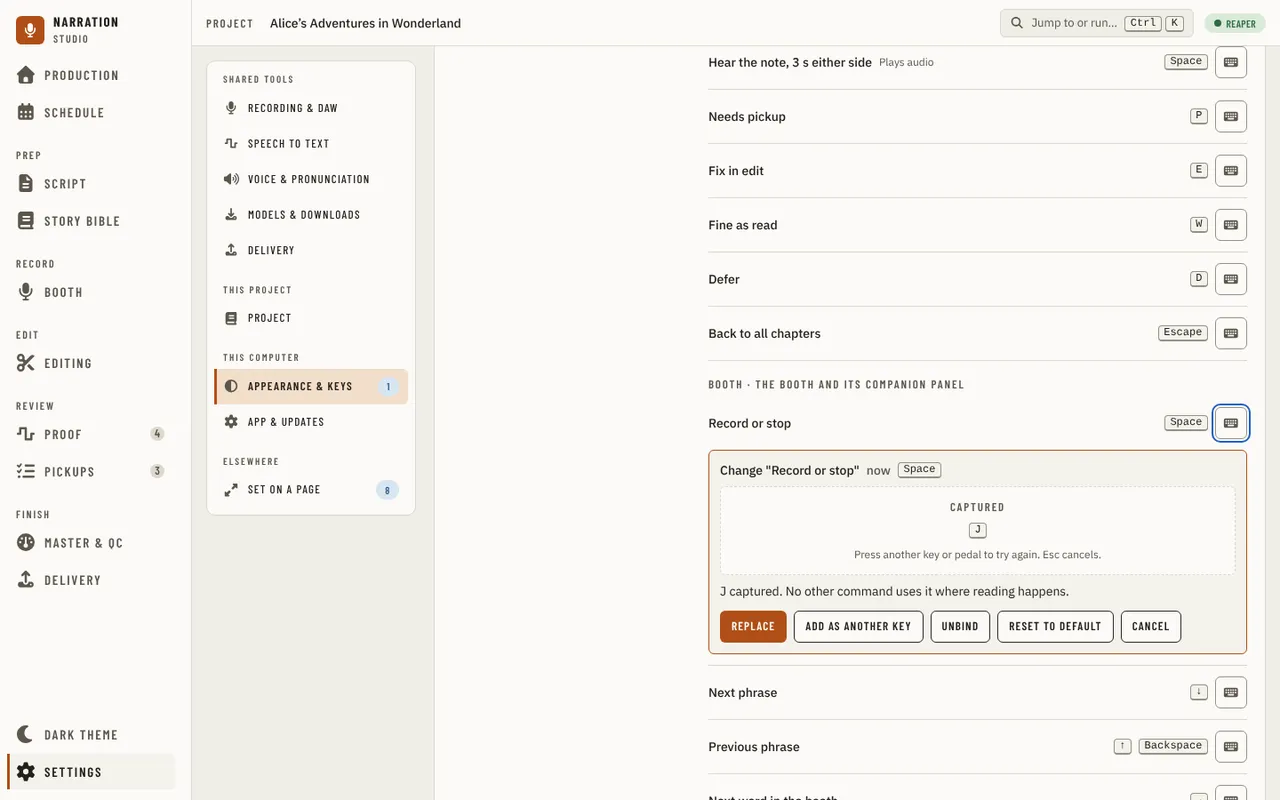
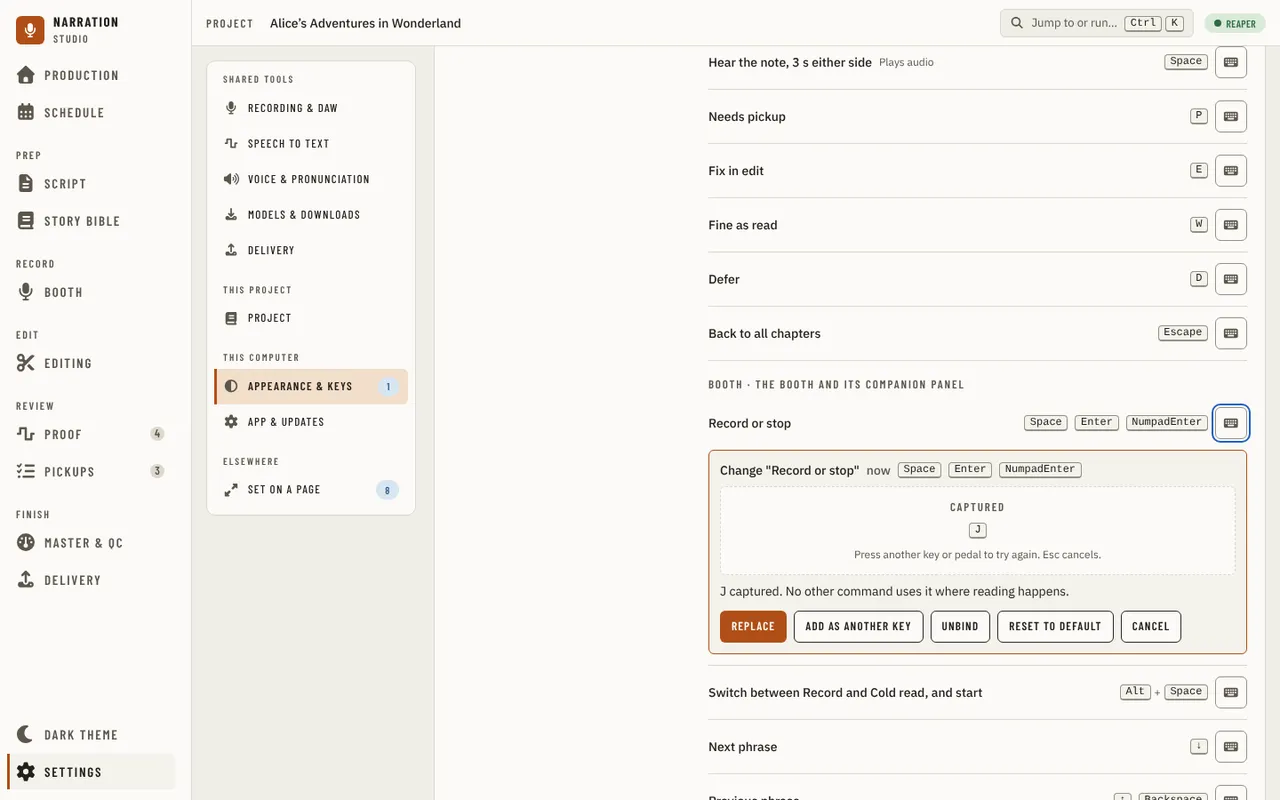
feat(booth): alt+space switches record and cold read and starts it (#3449)

diff --git a/src/studio/ui/tests/visual/booth-mode-switch.spec.ts b/src/studio/ui/tests/visual/booth-mode-switch.spec.ts
@@ -1,0 +1,141 @@
+// Alt+Space in the Booth (#3445): the main button switches to its other mode and starts it at once, by the same press as Record and Cold read. From
+// Record it starts a cold read, from Cold read a take; nothing new while either runs or while a popup has the keyboard; a held chord starts once.
+import { expect, test, type Page } from '@playwright/test';
+import { settlePage } from './helpers/settle';
+import { boothChapterReady } from './helpers/viewTop';
+import { goToPage } from './drivers/shared';
+import { pastStartGuard } from './helpers/startGuard';
+
+const record = (page: Page) => page.getByRole('button', { name: /^Record$/ });
+// A take shows REC; a cold read's main button also reads Stop, so Stop alone does not tell them apart.
+const stop = (page: Page) => page.getByText('REC', { exact: true });
+const coldRunning = (page: Page) => page.getByText('Mic on · cold read', { exact: true });
+
+async function openBooth(page: Page): Promise<void> {
+  await page.goto('/');
+  await settlePage(page);
+  await goToPage(page, 'Booth');
+  await boothChapterReady(page);
+  await expect(record(page)).toBeEnabled();
+}
+
+async function chooseColdRead(page: Page): Promise<void> {
+  await page.getByRole('button', { name: 'Record options' }).click();
+  await page.getByRole('radio', { name: 'Cold read' }).click();
+  await page.keyboard.press('Escape');
+  await expect(page.getByRole('button', { name: 'Cold read' })).toBeVisible();
+}
+
+/** Enter and Space after the switch are Record's: focus must be on the page, not on a control that keeps them. */
+const onThePage = (page: Page) =>
+  page.evaluate(() => {
+    const el = document.activeElement;
+    return !el || el === document.body || el.tagName === 'MAIN';
+  });
+
+test.describe('Alt+Space switches the main button and starts it', () => {
+  test('from Record: the button turns to Cold read and a cold read starts; Space then stops it', async ({ page }) => {
+    await openBooth(page);
+    await page.keyboard.press('Alt+Space');
+    await expect(coldRunning(page)).toBeVisible();
+    await expect(stop(page)).toHaveCount(0);
+    expect(await onThePage(page)).toBe(true);
+    await page.keyboard.press('Space');
+    await expect(coldRunning(page)).toHaveCount(0);
+    // The mode stays Cold read after it stops: the main button says so.
+    await expect(page.getByRole('button', { name: 'Cold read' })).toBeVisible();
+  });
+
+  test('from Cold read: the button turns to Record and a take starts; Space then stops it', async ({ page }) => {
+    await openBooth(page);
+    await chooseColdRead(page);
+    await page.keyboard.press('Alt+Space');
+    await expect(stop(page)).toBeVisible();
+    await expect(coldRunning(page)).toHaveCount(0);
+    expect(await onThePage(page)).toBe(true);
+    await pastStartGuard(page);
+    await page.keyboard.press('Space');
+    await expect(stop(page)).toHaveCount(0);
+    await expect(record(page)).toBeVisible();
+  });
+
+  test('during a take it does nothing new: the take goes on and the mode stays Record', async ({ page }) => {
+    await openBooth(page);
+    await page.keyboard.press('Space');
+    await expect(stop(page)).toBeVisible();
+    await page.keyboard.press('Alt+Space');
+    await page.waitForTimeout(500);
+    await expect(stop(page)).toBeVisible();
+    await expect(coldRunning(page)).toHaveCount(0);
+  });
+
+  test('during a cold read it does nothing new: the cold read goes on and no take starts', async ({ page }) => {
+    await openBooth(page);
+    await page.keyboard.press('Alt+Space');
+    await expect(coldRunning(page)).toBeVisible();
+    await page.keyboard.press('Alt+Space');
+    await page.waitForTimeout(500);
+    await expect(coldRunning(page)).toBeVisible();
+    await expect(stop(page)).toHaveCount(0);
+  });
+
+  test('with Record options focused it starts the take and frees focus, so Enter then stops it', async ({ page }) => {
+    await openBooth(page);
+    await chooseColdRead(page);
+    await expect(page.getByRole('button', { name: 'Record options' })).toBeFocused();
+    await page.keyboard.press('Alt+Space');
+    await expect(stop(page)).toBeVisible();
+    expect(await onThePage(page)).toBe(true);
+    await pastStartGuard(page);
+    await page.keyboard.press('Enter');
+    await expect(stop(page)).toHaveCount(0);
+  });
+
+  test('the footer keeps the room it had: no Alt+Space hint, one row at 1280', async ({ page }) => {
+    await page.setViewportSize({ width: 1280, height: 800 });
+    await openBooth(page);
+    const hints = page.locator('#bkeys');
+    await expect(hints).toBeVisible();
+    await expect(hints).not.toContainText('Switch mode');
+    expect(await hints.evaluate((el) => el.getBoundingClientRect().height)).toBeLessThan(45);
+  });
+
+  test('the shortcut sheet lists the key', async ({ page }) => {
+    await openBooth(page);
+    await page.keyboard.press('Shift+Slash');
+    await expect(page.getByRole('dialog').getByText('Switch between Record and Cold read, and start')).toBeVisible();
+  });
+
+  test('a held chord starts once', async ({ page }) => {
+    await openBooth(page);
+    await chooseColdRead(page);
+    await page.keyboard.down('Alt');
+    await page.keyboard.down('Space');
+    for (let i = 0; i < 10; i++) await page.keyboard.down('Space');
+    await page.keyboard.up('Space');
+    await page.keyboard.up('Alt');
+    await expect(stop(page)).toBeVisible();
+    await page.waitForTimeout(500);
+    await expect(stop(page)).toBeVisible();
+  });
+
+  test('with a popover open it does nothing: the popover keeps the keyboard and nothing starts', async ({ page }) => {
+    await openBooth(page);
+    await page.getByRole('button', { name: 'Record options' }).click();
+    await expect(page.getByRole('dialog', { name: 'Record options' })).toBeVisible();
+    await page.keyboard.press('Alt+Space');
+    await page.waitForTimeout(500);
+    await expect(stop(page)).toHaveCount(0);
+    await expect(coldRunning(page)).toHaveCount(0);
+  });
+
+  test('the keydown is handled, so the window menu Alt+Space opens on Windows is not asked for', async ({ page }) => {
+    await openBooth(page);
+    const prevented = await page.evaluate(() => {
+      const event = new KeyboardEvent('keydown', { key: ' ', code: 'Space', altKey: true, bubbles: true, cancelable: true });
+      document.querySelector('main')?.dispatchEvent(event);
+      return event.defaultPrevented;
+    });
+    expect(prevented).toBe(true);
+  });
+});

diff --git a/src/studio/ui/src/components/booth/page/useBoothPage.ts b/src/studio/ui/src/components/booth/page/useBoothPage.ts
@@ -1,6 +1,8 @@
 import { useCallback, useEffect, useMemo, useReducer, useRef, useState } from 'react';
 import type { DawResult } from '../../../api/contracts/daw';
 import { usePedalSpace } from '../../../input/usePedalSpace';
+import { keyLayerOpen } from '../../../input/targets';
+import { releaseFocusToPage } from '../releaseFocusToPage';
 import { useCommand } from '../../../input/useCommand';
 import type { OverlayService } from '../../../overlay/overlayService';
 import type { DawClient, DawRecordStart } from '../../../ports/daw';
@@ -1114,7 +1116,7 @@ export function useBoothPage(options: BoothPageOptions) {
       }
       const started = listening.value;
       if (started.ok) coldClaim.current = mine;
-      else if (!gone()) overlay.toast(`Cold read did not start: ${started.reason || 'listening failed'}.`, { tone: 'error' });
+      else if (!gone()) overlay.toast(`Cold read did not start: ${(started.reason || 'listening failed').replace(/[.\s]+$/, '')}.`, { tone: 'error' });
     } finally {
       coldReadStarting.current = false;
       setColdStarting(false);
@@ -1176,6 +1178,19 @@ export function useBoothPage(options: BoothPageOptions) {
     if (!latest.current.recording && control.gate) return blocked(control.gate);
     void roll.punchAndRoll();
   }, [control.gate, roll, blocked]);
+  // Alt+Space (#3445): the main button's other mode, started at once by the same press Record and Cold read use (toggleTake, toggleColdRead):
+  // from Record a cold read, from Cold read a take. Nothing new while a take or a cold read runs or is starting, or while a popup or a question has
+  // the keyboard (the router lets an Alt chord through a popup, so this says no to it here).
+  const switchMode = useCallback(async () => {
+    const now = latest.current;
+    if (now.takeOut || now.coldRead || coldReadStarting.current || starting.current || keyLayerOpen()) return;
+    releaseFocusToPage();
+    const cold = !now.coldMode;
+    setColdMode(cold);
+    if (cold) await toggleColdRead();
+    else await toggleTake();
+  }, [toggleColdRead, toggleTake]);
+  useCommand('booth.mode.switch', () => void switchMode());
   useCommand('reading.toggle', () => void pressMain());
   usePedalSpace(pressMain);
   useCommand('booth.phrase.next', () => moveReading(nextPhrase(latest.current.units, latest.current.at)));

diff --git a/src/studio/ui/src/input/commands.catalog.test.ts b/src/studio/ui/src/input/commands.catalog.test.ts
@@ -105,6 +105,7 @@ describe('the Booth rows', () => {
       'booth.phrase.prev': ['ArrowUp', 'Backspace'],
       'booth.word.next': ['ArrowRight'],
       'booth.word.prev': ['ArrowLeft'],
+      'booth.mode.switch': ['Alt+Space'],
       'booth.roll': ['KeyR'],
       'booth.view.down': ['PageDown'],
       'booth.view.up': ['PageUp'],
@@ -134,13 +135,24 @@ describe('the Booth rows', () => {
     // Space stays the first gesture (the footer hint draws it); Enter and numpad Enter are the same action for the numpad (#3039).
     expect(codes('reading.toggle')).toEqual(['Space', 'Enter', 'NumpadEnter']);
     for (const code of ['Space', 'Enter', 'NumpadEnter']) {
-      const rows = COMMAND_CATALOG.filter((row) => row.scope === 'booth' && row.defaults.some((gesture) => gesture.code === code));
+      // A plain press: Alt+Space is a different gesture, the mode switch (#3445), checked below.
+      const rows = COMMAND_CATALOG.filter(
+        (row) => row.scope === 'booth' && row.defaults.some((gesture) => gesture.code === code && gesture.modifiers.length === 0),
+      );
       expect(
         rows.map((row) => row.id),
         code,
       ).toEqual(['reading.toggle']);
     }
     expect(findConflicts(COMMAND_CATALOG, defaultKeymap(COMMAND_CATALOG, false))).toEqual([]);
+  });
+
+  it('alt-space-switches-the-mode: Alt+Space is the one booth row with a modified Space, the Record / Cold read switch (#3445)', () => {
+    const rows = COMMAND_CATALOG.filter(
+      (row) => row.scope === 'booth' && row.defaults.some((gesture) => gesture.code === 'Space' && gesture.modifiers.length > 0),
+    );
+    expect(rows.map((row) => row.id)).toEqual(['booth.mode.switch']);
+    expect(findCommand('booth.mode.switch')?.defaults).toEqual([expect.objectContaining({ code: 'Space', modifiers: ['Alt'] })]);
   });
 
   it('no-f-or-p-bindings: no booth row binds F or P, so nothing is flagged or sent to Pickups from the Booth', () => {

diff --git a/src/studio/ui/src/components/booth/voices/useBoothVoices.ts b/src/studio/ui/src/components/booth/voices/useBoothVoices.ts
@@ -1,4 +1,4 @@
-import { focusPageMain } from '../../primitives/focusReturn';
+import { releaseFocusToPage } from '../releaseFocusToPage';
 import { retryAction, type ToastAction } from '../../primitives/Toast';
 import { useCallback, useEffect, useMemo, useRef, useState } from 'react';
 import type { GuideEntity } from '../../../api/contracts/storyBible';
@@ -16,16 +16,6 @@ import { chapterLink } from '../../chapterTracks/chapterLink';
 
 /** The id of the Booth's voice button. */
 export const VOICE_CONTROL_ID = 'bvoice';
-
-/**
- * A voice key is Record's neighbour on the numpad, so the Enter that follows it must reach the page. A button left focused (the voice button after a
- * pick or a Tab, Record options, a chapter arrow) keeps Enter and would be pressed or opened instead of starting or stopping the take, so a voice key
- * hands focus from any button to the page's <main> (focusable, not tabbable).
- */
-function releaseFocusToPage(): void {
-  const focused = document.activeElement;
-  if (focused instanceof HTMLButtonElement) focusPageMain();
-}
 
 export type BoothVoices = {
   /** The chapter's voices in REAPER's order, empty when it records on one track (a flat project or a plain track link). */

diff --git a/src/studio/ui/tests/visual/booth-voice-key-focus.spec.ts b/src/studio/ui/tests/visual/booth-voice-key-focus.spec.ts
@@ -79,6 +79,19 @@ test.describe('a lane key then Enter', () => {
     });
   }
 
+  test('a lane key with the skip link focused takes focus off it, so Enter stops the take instead of following the link', async ({ page }) => {
+    await openBooth(page);
+    const skip = page.getByRole('link', { name: 'Skip to content' });
+    await skip.focus();
+    await expect(skip).toBeFocused();
+    await page.keyboard.press('Numpad1');
+    await expect(stopButton(page)).toBeVisible();
+    expect(await enterSwallowed(page)).toBe(false);
+    await pastStartGuard(page);
+    await page.keyboard.press('Enter');
+    await expect(stopButton(page)).toHaveCount(0);
+  });
+
   for (const via of ['Record options', 'Record options after Escape', 'Next chapter', 'Previous chapter']) {
     test(`a lane key with ${via} focused takes focus off it, so Enter stops the take`, async ({ page }) => {
       await openBooth(page);

diff --git a/src/studio/ui/src/components/booth/releaseFocusToPage.ts b/src/studio/ui/src/components/booth/releaseFocusToPage.ts
@@ -1,0 +1,12 @@
+import { SPACE_ACTIVATES } from '../../input/targets';
+import { focusPageMain } from '../primitives/focusReturn';
+
+/**
+ * A Booth key whose next key is Record's (a voice key, Alt+Space) leaves Enter and Space to the page: a control left focused that a press activates
+ * (the voice button after a pick or a Tab, Record options, a chapter arrow, the skip link) would be pressed, opened or followed instead of starting or
+ * stopping the take, so focus moves from it to the page's <main> (focusable, not tabbable). A field keeps its focus.
+ */
+export function releaseFocusToPage(): void {
+  const focused = document.activeElement;
+  if (focused instanceof Element && focused !== document.body && focused.matches(SPACE_ACTIVATES)) focusPageMain();
+}

diff --git a/src/studio/ui/src/input/commands.catalog.ts b/src/studio/ui/src/input/commands.catalog.ts
@@ -455,6 +455,16 @@ export const COMMAND_CATALOG: readonly CommandDescriptor[] = [
     group: 'Booth',
     surfaces: ['help', 'settings'],
   },
+  // Alt+Space switches the main button to the other mode and starts it at once (Record to Cold read, Cold read to Record); nothing new while a take or a cold read runs.
+  // It is the one Alt+Space of the window: Windows opens the window menu on it, so the router's preventDefault is what keeps that menu shut.
+  {
+    id: 'booth.mode.switch',
+    label: 'Switch between Record and Cold read, and start',
+    scope: 'booth',
+    defaults: [key('Space', ['Alt'])],
+    group: 'Booth',
+    surfaces: ['help', 'settings'],
+  },
   {
     id: 'booth.phrase.next',
     label: 'Next phrase',

diff --git a/src/studio/ui/src/input/hints.ts b/src/studio/ui/src/input/hints.ts
@@ -58,6 +58,8 @@ export type FooterSurface = 'booth' | 'proof';
  * The footers' specs, in the order of the mock's key hints. A spec may name only an id the catalogue has (`hints.test.ts`
  * fails otherwise), so the Editing footer joins this table in the slice that adds its commands.
  */
+// The Booth footer lists no row for `booth.mode.switch` (Alt+Space): it is one row at the widths it was before, and a hint would wrap it below about 1274 px.
+// The key is in the shortcut sheet (?) and Settings (`hints.test.ts` pins the footer's list).
 export const FOOTER_SPECS: Record<FooterSurface, FooterSpec> = {
   booth: [
     { id: 'reading.toggle', label: 'Record / stop' },

diff --git a/src/studio/ui/src/input/hints.test.ts b/src/studio/ui/src/input/hints.test.ts
@@ -61,6 +61,10 @@ describe('footerHints', () => {
     ]);
   });
 
+  it('the-footer-does-not-grow: the Booth footer lists no Alt+Space row, so it keeps the room it had (the key is in the shortcut sheet and Settings)', () => {
+    expect(footerHints('booth', keymap).map((hint) => hint.id)).not.toContain('hint-booth.mode.switch');
+  });
+
   it('the-bookmark-keys-list-in-the-footer: B, and the previous and next keys as one chord that names a shared modifier once', () => {
     const hints = footerHints('booth', keymap);
     expect(hints.find((hint) => hint.label === 'Bookmark')?.keys).toEqual(['B']);

diff --git a/docs/guides/using-the-app/booth.md b/docs/guides/using-the-app/booth.md
@@ -346,7 +346,7 @@ to start), the footer says why. Listening starts at the same time as the DAW, so
 
 ### A cold read
 
-To read a passage through before recording it, open **Record options** (the caret on the side of **Record**) and choose **Cold read** under **Main button**. The button now reads **Cold read**, outlined in blue so it cannot be mistaken for a take, and its hint says that Space starts a cold read and that nothing is recorded. Press the button, Space or Enter to start. Choosing **Record** there again switches the button back. The choice is not kept: when you open the Booth again the button reads **Record**, so a lone Space records, and changing chapter while a cold read listens ends it and puts the button back on **Record** too. Choosing **Start cold read** in the jump menu (Ctrl+K) does both steps at once. The Booth listens as it does during a take, with the engine and model chosen in Settings, and nothing you say leaves this computer. Nothing is recorded. While it listens, the top bar shows **Mic on · cold read** in the recording colour, drawn dashed.
+To read a passage through before recording it, open **Record options** (the caret on the side of **Record**) and choose **Cold read** under **Main button**. The button now reads **Cold read**, outlined in blue so it cannot be mistaken for a take, and its hint says that Space starts a cold read and that nothing is recorded. Press the button, Space or Enter to start. Choosing **Record** there again switches the button back. The choice is not kept: when you open the Booth again the button reads **Record**, so a lone Space records, and changing chapter while a cold read listens ends it and puts the button back on **Record** too. Choosing **Start cold read** in the jump menu (Ctrl+K) does both steps at once. **Alt+Space** switches the button to the other mode and starts it at once: from **Record** it starts a cold read, from **Cold read** it starts a take, with the same checks and messages as pressing the button. While a take records or a cold read listens, or while a popover or question is open, Alt+Space does nothing, and holding it starts once. The shortcut sheet (**?**) lists it, and **Settings** > **Appearance & keys** > **Shortcuts** can change it. The Booth listens as it does during a take, with the engine and model chosen in Settings, and nothing you say leaves this computer. Nothing is recorded. While it listens, the top bar shows **Mic on · cold read** in the recording colour, drawn dashed.
 
 A second cursor, the **ghost**, follows your voice: the word you have reached has a dashed outline and a muted tint, with a dashed tick above it. The text keeps the ghost in view, so you can read on without touching anything. The real cursor, a filled word with a caret, stays where you left it: the next take starts from there. The progress line and the resume line follow the real cursor too. A click, an arrow key or **Start from here** moves the real cursor, not the ghost. What you read during a cold read is not kept: it never moves the real cursor, sets where you stopped, adds a suspected line or touches a bookmark.
 
